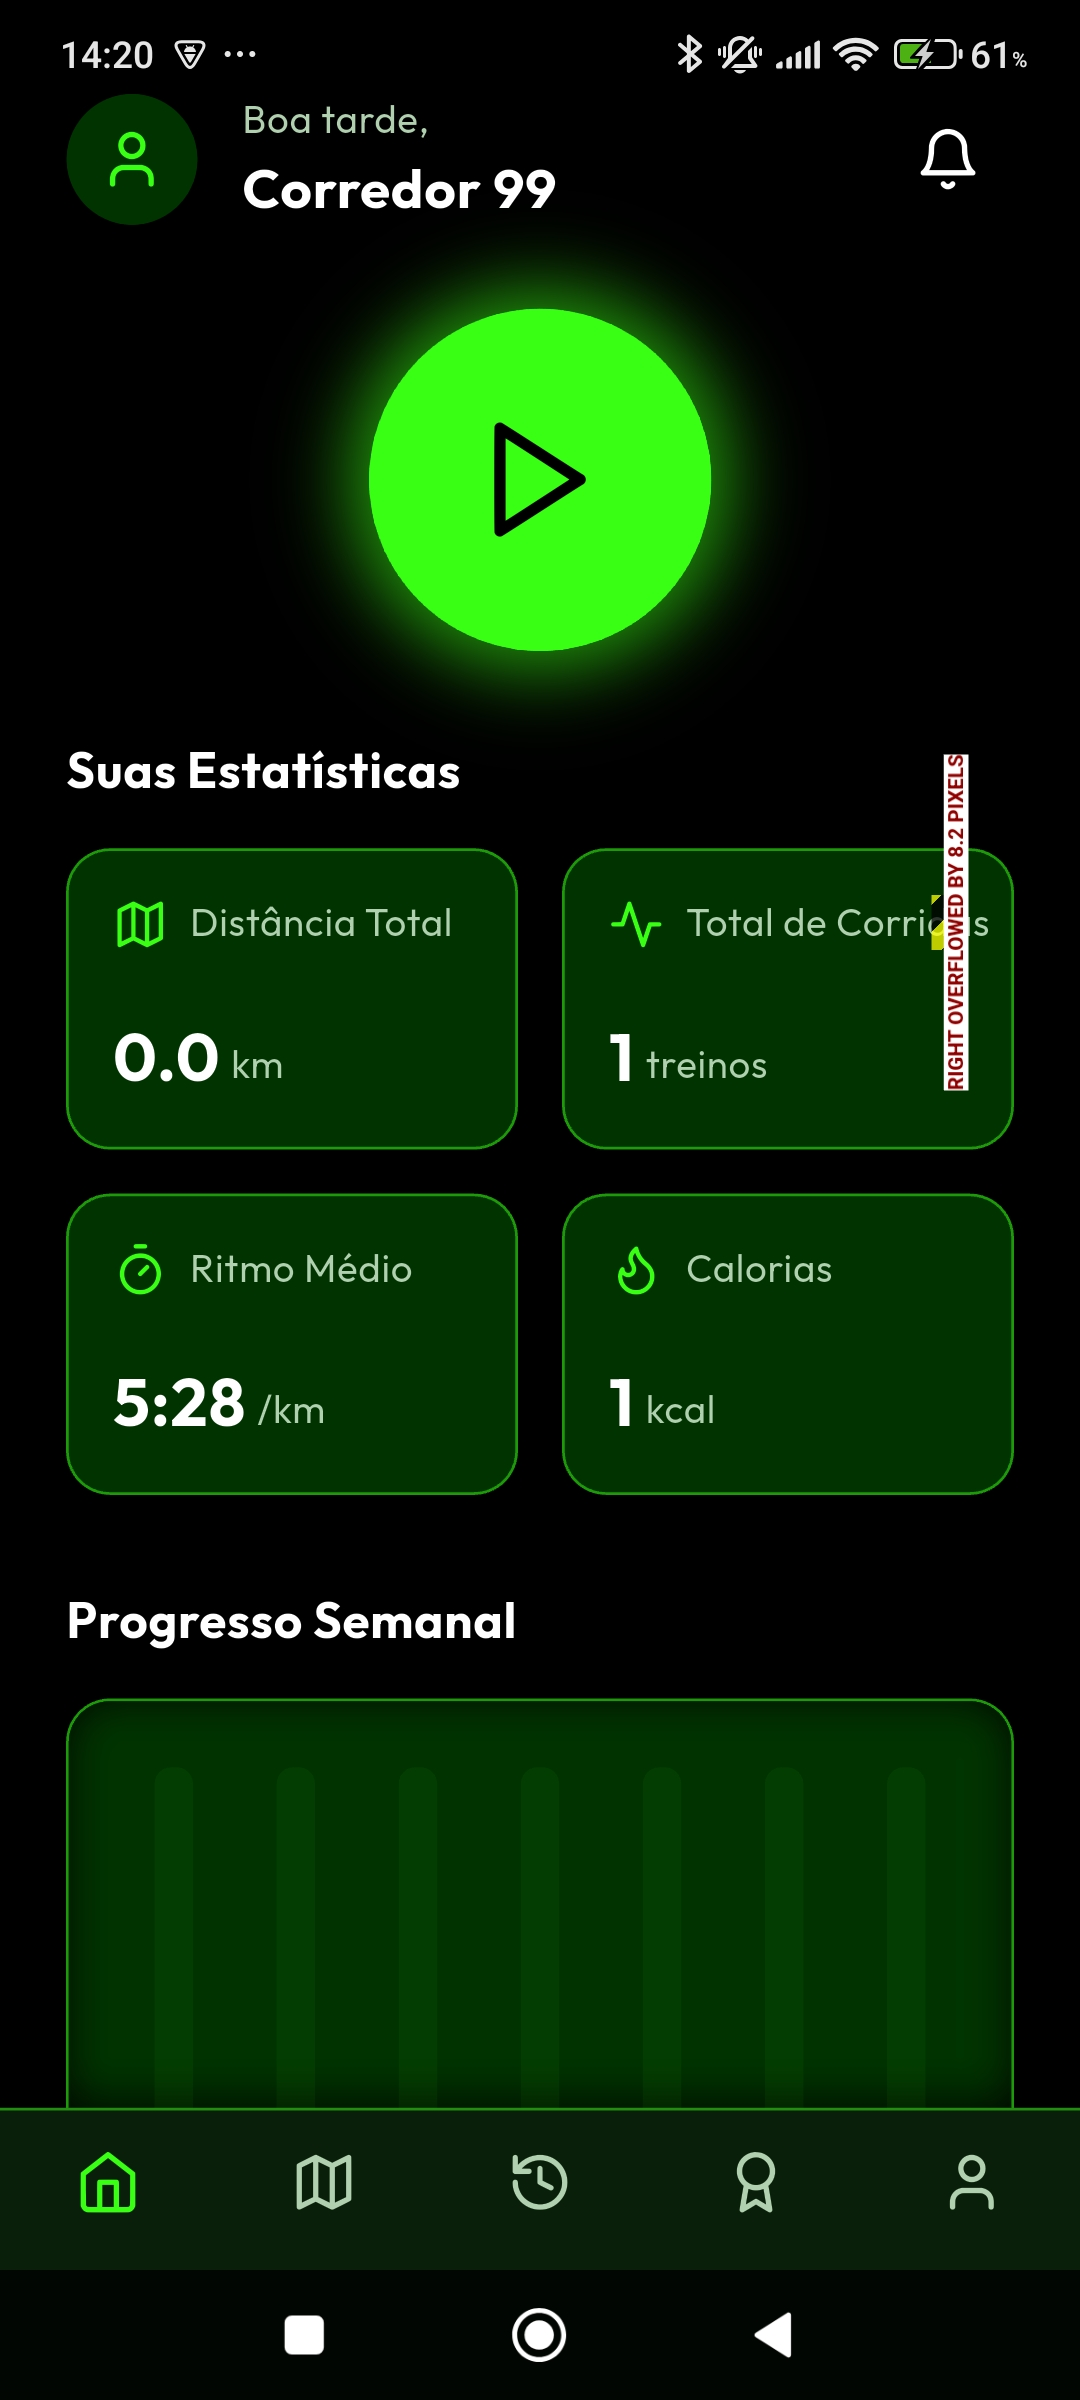
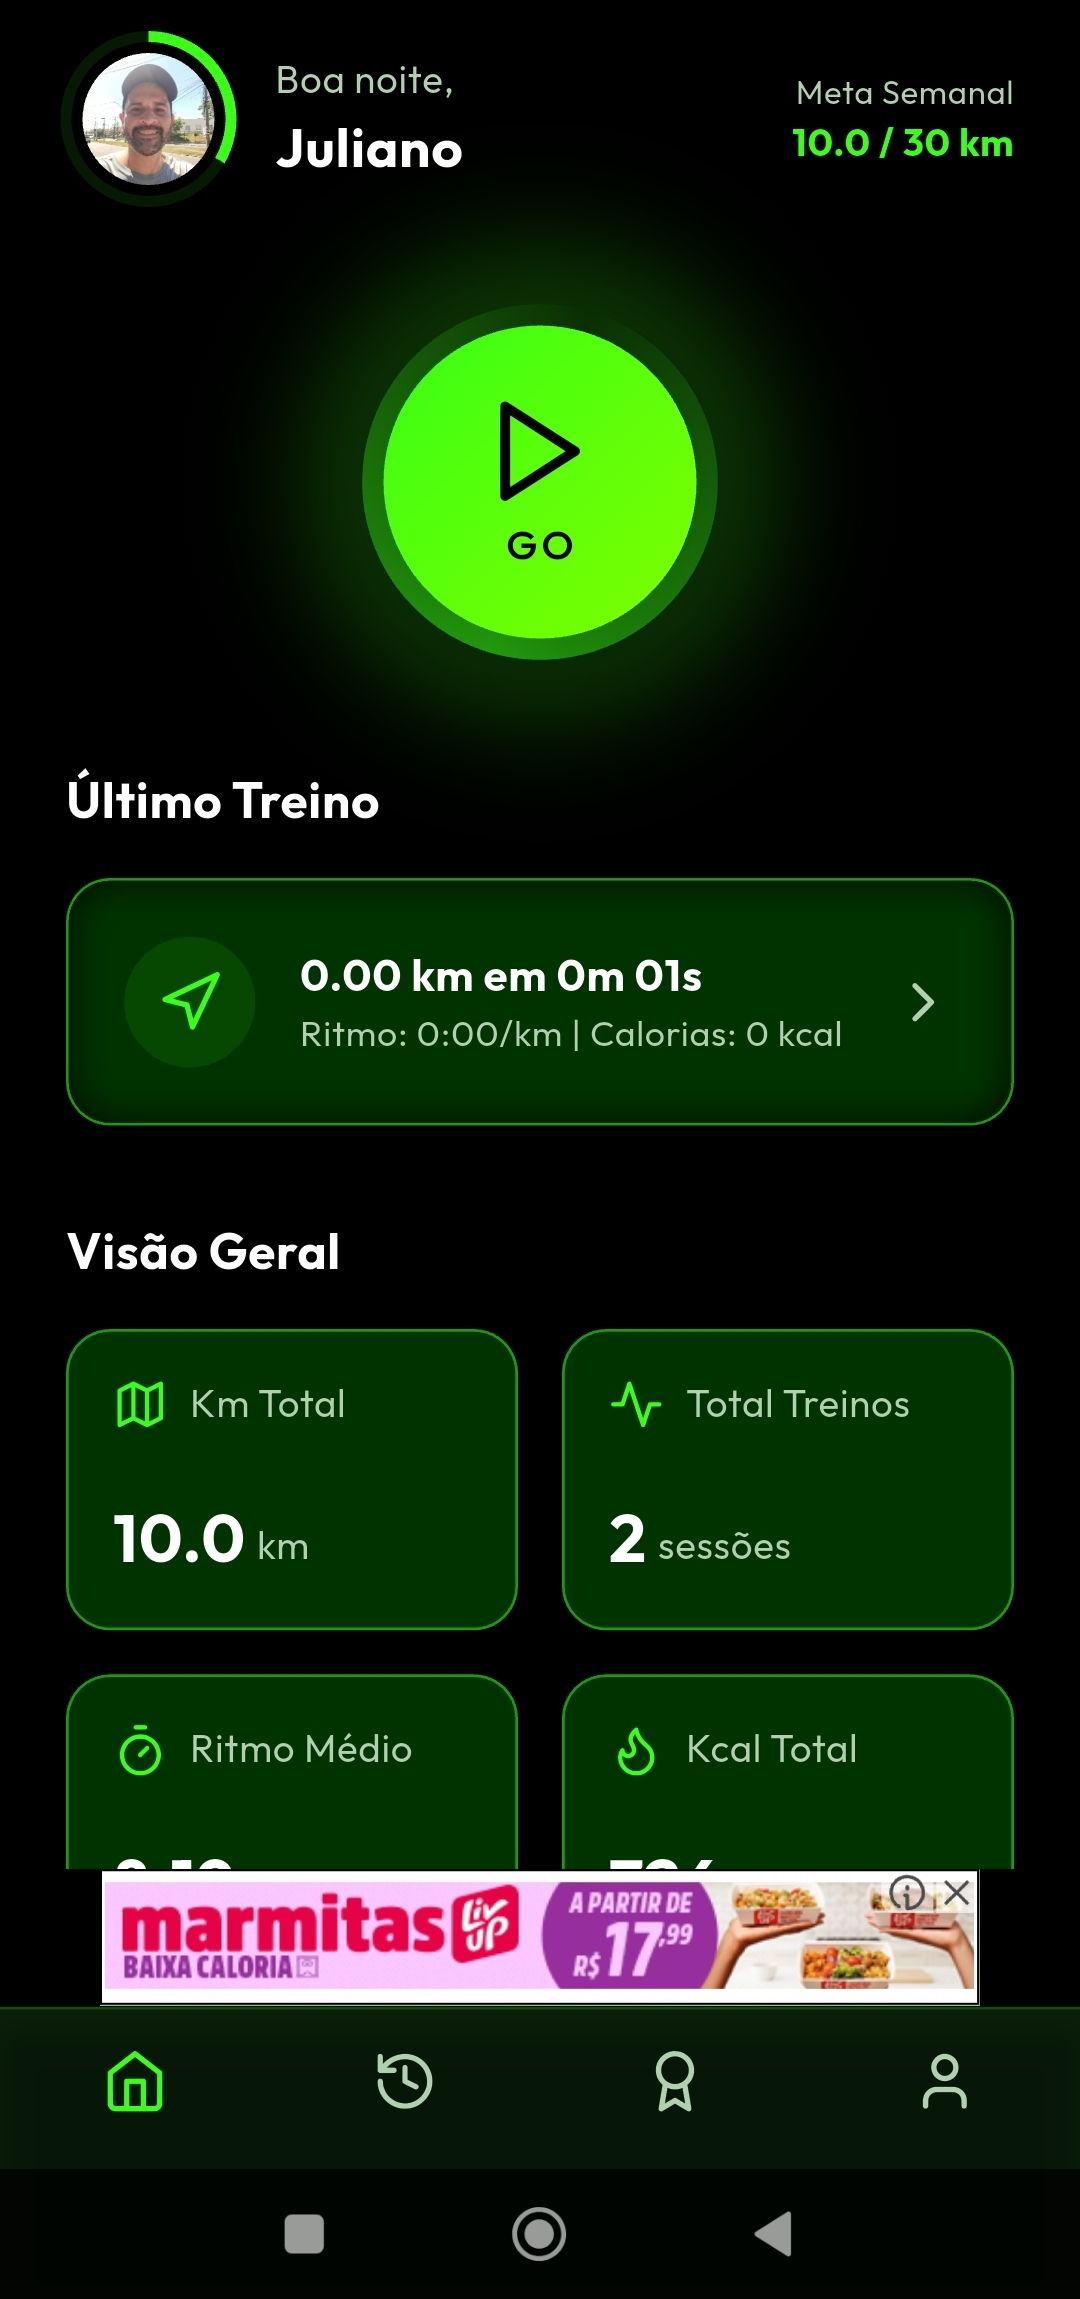
feat: add LandingRunLab and RunLabSuporte components, update images and privacy policy links

diff --git a/src/pages/runlab/suporte.js b/src/pages/runlab/suporte.js
@@ -1,0 +1,204 @@
+import Head from 'next/head';
+import Link from 'next/link';
+
+const faqs = [
+  {
+    question: 'Como faço backup das minhas corridas?',
+    answer:
+      'Abra Perfil > Dados e Privacidade > Exportar meus treinos. O RunLab gera automaticamente um arquivo JSON com todo o historico.',
+  },
+  {
+    question: 'Em qual formato os dados sao exportados?',
+    answer:
+      'A exportacao e feita em JSON (.json). Esse formato e padrao e facilita armazenamento, migracao e restauracao.',
+  },
+  {
+    question: 'Consigo restaurar os dados depois?',
+    answer:
+      'Sim. Acesse Perfil > Dados e Privacidade > Restaurar backup e selecione o arquivo JSON salvo para recuperar os treinos.',
+  },
+  {
+    question: 'Se eu trocar de celular, perco minhas corridas?',
+    answer:
+      'Nao, desde que voce tenha feito o backup JSON. No novo dispositivo, basta instalar o app e usar a opcao de importacao.',
+  },
+  {
+    question: 'O RunLab envia meus dados para servidores?',
+    answer:
+      'Nao. Os dados das corridas ficam sob responsabilidade do usuario, armazenados localmente no dispositivo.',
+  },
+  {
+    question: 'Onde encontro a politica de privacidade?',
+    answer:
+      'Voce pode acessar a politica completa na pagina oficial de privacidade do RunLab, com detalhes sobre armazenamento local e anuncios.',
+  },
+];
+
+const RunLabSuportePage = () => {
+  return (
+    <>
+      <Head>
+        <title>RunLab - Central de Suporte</title>
+        <meta
+          name="description"
+          content="Central de suporte oficial do RunLab com orientacoes de backup, exportacao JSON, importacao e FAQ."
+        />
+      </Head>
+
+      <main className="min-h-screen bg-gradient-to-br from-gray-50 via-white to-gray-100 dark:from-gray-900 dark:via-gray-800 dark:to-gray-900">
+        <section className="relative overflow-hidden border-b border-green-100 dark:border-green-900/40">
+          <div className="absolute -top-24 -left-24 h-72 w-72 rounded-full bg-green-100/70 blur-3xl dark:bg-green-900/20" />
+          <div className="absolute -bottom-24 -right-24 h-72 w-72 rounded-full bg-emerald-100/70 blur-3xl dark:bg-emerald-900/20" />
+
+          <div className="relative mx-auto max-w-5xl px-4 py-14 sm:px-6 lg:px-8">
+            <Link
+              href="/runlab"
+              className="mb-8 inline-flex items-center gap-1 text-sm text-gray-500 transition-colors hover:text-green-600 dark:text-gray-400 dark:hover:text-green-400"
+            >
+              <svg className="h-4 w-4" fill="none" stroke="currentColor" viewBox="0 0 24 24">
+                <path strokeLinecap="round" strokeLinejoin="round" strokeWidth={2} d="M15 19l-7-7 7-7" />
+              </svg>
+              Voltar para RunLab
+            </Link>
+
+            <div className="mb-6 inline-flex items-center gap-2 rounded-full border border-green-200 bg-green-50 px-4 py-1 text-xs font-semibold uppercase tracking-wide text-green-700 dark:border-green-800/60 dark:bg-green-900/30 dark:text-green-300">
+              Suporte oficial
+            </div>
+
+            <h1 className="text-3xl font-bold text-gray-900 dark:text-white md:text-5xl">
+              Central de Suporte do RunLab
+            </h1>
+            <p className="mt-4 max-w-3xl text-base text-gray-600 dark:text-gray-300 md:text-lg">
+              Orientacoes oficiais para backup, exportacao em JSON e restauracao segura dos seus treinos.
+            </p>
+          </div>
+        </section>
+
+        <section className="mx-auto max-w-5xl px-4 py-10 sm:px-6 lg:px-8">
+          <div className="rounded-2xl border border-green-100 bg-white p-6 shadow-sm dark:border-green-900/40 dark:bg-gray-800 md:p-8">
+            <h2 className="text-2xl font-bold text-gray-900 dark:text-white">Comece por aqui</h2>
+            <p className="mt-2 text-gray-600 dark:text-gray-300">
+              O RunLab faz backup, exporta os dados no formato JSON e permite importar o arquivo no sistema.
+            </p>
+
+            <div className="mt-6 grid grid-cols-1 gap-4 md:grid-cols-3">
+              <div className="rounded-xl border border-gray-200 bg-gray-50 p-4 dark:border-gray-700 dark:bg-gray-900/50">
+                <p className="text-sm font-semibold text-gray-900 dark:text-white">1) Backup</p>
+                <p className="mt-1 text-sm text-gray-600 dark:text-gray-300">
+                  Gere uma copia dos seus dados direto no app para evitar perda de historico.
+                </p>
+              </div>
+              <div className="rounded-xl border border-gray-200 bg-gray-50 p-4 dark:border-gray-700 dark:bg-gray-900/50">
+                <p className="text-sm font-semibold text-gray-900 dark:text-white">2) Exportacao JSON</p>
+                <p className="mt-1 text-sm text-gray-600 dark:text-gray-300">
+                  O arquivo e exportado no formato JSON para facilitar armazenamento e migracao.
+                </p>
+              </div>
+              <div className="rounded-xl border border-gray-200 bg-gray-50 p-4 dark:border-gray-700 dark:bg-gray-900/50">
+                <p className="text-sm font-semibold text-gray-900 dark:text-white">3) Importacao</p>
+                <p className="mt-1 text-sm text-gray-600 dark:text-gray-300">
+                  Reimporte o JSON no RunLab para restaurar corridas no mesmo aparelho ou em outro.
+                </p>
+              </div>
+            </div>
+          </div>
+        </section>
+
+        <section className="mx-auto max-w-5xl px-4 pb-8 sm:px-6 lg:px-8">
+          <div className="grid grid-cols-1 gap-6">
+            <article className="rounded-2xl border border-gray-200 bg-white p-6 shadow-sm dark:border-gray-700 dark:bg-gray-800 md:p-8">
+              <h2 className="text-2xl font-bold text-gray-900 dark:text-white">1. Como fazer backup dos seus treinos</h2>
+              <p className="mt-2 text-gray-600 dark:text-gray-300">
+                Siga este passo a passo para gerar um backup completo dos seus dados.
+              </p>
+
+              <ol className="mt-5 ml-5 list-decimal space-y-3 text-gray-700 dark:text-gray-300">
+                <li>Abra o aplicativo RunLab.</li>
+                <li>
+                  Na barra de navegacao inferior, localize o icone de perfil (representado por uma pessoa),
+                  que fica na ultima aba a direita.
+                </li>
+                <li>Toque na aba Perfil.</li>
+                <li>Na tela de perfil, procure pela secao Dados e Privacidade.</li>
+                <li>Dentro dessa secao, selecione a opcao Exportar meus treinos.</li>
+                <li>Ao selecionar essa opcao, sera aberta a tela de compartilhamento de arquivos do dispositivo.</li>
+                <li>
+                  Um arquivo no formato JSON (.json) sera gerado automaticamente contendo todos os treinos do usuario.
+                </li>
+                <li>
+                  Salve esse arquivo em um local seguro, como Google Drive, armazenamento do dispositivo
+                  ou outro servico de nuvem de sua preferencia.
+                </li>
+              </ol>
+
+              <div className="mt-5 rounded-xl border border-green-200 bg-green-50 p-4 text-sm text-green-900 dark:border-green-800 dark:bg-green-900/20 dark:text-green-200">
+                Esse arquivo representa o backup completo dos seus treinos.
+              </div>
+            </article>
+
+            <article className="rounded-2xl border border-gray-200 bg-white p-6 shadow-sm dark:border-gray-700 dark:bg-gray-800 md:p-8">
+              <h2 className="text-2xl font-bold text-gray-900 dark:text-white">2. Como restaurar um backup</h2>
+              <p className="mt-2 text-gray-600 dark:text-gray-300">
+                Caso seja necessario recuperar os dados posteriormente, siga os passos abaixo.
+              </p>
+
+              <ol className="mt-5 ml-5 list-decimal space-y-3 text-gray-700 dark:text-gray-300">
+                <li>Acesse novamente a secao Dados e Privacidade dentro da aba Perfil.</li>
+                <li>Selecione a opcao Restaurar backup.</li>
+                <li>Escolha o arquivo JSON de backup previamente salvo.</li>
+                <li>O sistema ira importar os dados e restaurar os treinos no aplicativo.</li>
+              </ol>
+            </article>
+          </div>
+        </section>
+
+        <section className="mx-auto max-w-5xl px-4 pb-8 sm:px-6 lg:px-8">
+          <div className="rounded-2xl border border-gray-200 bg-white p-6 shadow-sm dark:border-gray-700 dark:bg-gray-800 md:p-8">
+            <h2 className="text-2xl font-bold text-gray-900 dark:text-white">FAQ</h2>
+            <p className="mt-2 text-gray-600 dark:text-gray-300">Perguntas frequentes sobre backup, restauracao, importacao e privacidade.</p>
+
+            <div className="mt-6 space-y-3">
+              {faqs.map((item) => (
+                <details
+                  key={item.question}
+                  className="group rounded-xl border border-gray-200 bg-gray-50 p-4 open:border-green-300 open:bg-green-50/40 dark:border-gray-700 dark:bg-gray-900/50 dark:open:border-green-800 dark:open:bg-green-900/10"
+                >
+                  <summary className="flex cursor-pointer list-none items-center justify-between gap-4 text-left text-sm font-semibold text-gray-900 dark:text-white">
+                    <span>{item.question}</span>
+                    <span className="shrink-0 text-gray-400 transition group-open:rotate-45">+</span>
+                  </summary>
+                  <p className="mt-3 text-sm leading-relaxed text-gray-600 dark:text-gray-300">{item.answer}</p>
+                </details>
+              ))}
+            </div>
+          </div>
+        </section>
+
+        <section className="mx-auto max-w-5xl px-4 pb-14 sm:px-6 lg:px-8">
+          <div className="rounded-2xl bg-gradient-to-r from-green-500 to-emerald-600 p-6 text-white shadow-lg md:p-8">
+            <h2 className="text-2xl font-bold">Ainda precisa de ajuda?</h2>
+            <p className="mt-2 text-green-100">
+              Fale com o suporte do RunLab e descreva sua duvida. Vamos te ajudar com backup, importacao e uso do app.
+            </p>
+            <div className="mt-5 flex flex-col gap-3 sm:flex-row">
+              <a
+                href="mailto:[email redacted]"
+                className="inline-flex items-center justify-center rounded-xl bg-white px-5 py-3 font-semibold text-green-700 transition hover:scale-[1.02]"
+              >
+                Enviar email para suporte
+              </a>
+              <Link
+                href="/privacidade-runlab"
+                className="inline-flex items-center justify-center rounded-xl border border-white/50 px-5 py-3 font-semibold text-white transition hover:bg-white/10"
+              >
+                Ver politica de privacidade
+              </Link>
+            </div>
+          </div>
+        </section>
+      </main>
+    </>
+  );
+};
+
+export default RunLabSuportePage;

diff --git a/src/pages/components/Portfolio.js b/src/pages/components/Portfolio.js
@@ -75,6 +75,15 @@ const projects = [
     tags: ['Next.js', 'Notion', 'CMS'],
     category: 'frontend'
   },
+  {
+    title: 'RunLab',
+    description: 'App de corridas com acompanhamento de treinos, backup em JSON, importacao de dados e pagina de suporte dedicada.',
+    imageUrl: '/images/RUNLAB_SCREEN.jpg',
+    projectUrl: 'https://www.juliano340.com/runlab',
+    repoUrl: 'https://github.com/juliano340/RunLabAG',
+    tags: ['RunLab', 'Mobile', 'JSON Backup', 'Privacidade'],
+    category: 'frontend'
+  },
 ];
 
 const Portfolio = () => {

diff --git a/src/pages/privacidade-runlab.js b/src/pages/privacidade-runlab.js
@@ -24,15 +24,6 @@ const PrivacidadeRunLab = () => {
         <div className="max-w-4xl mx-auto">
           {/* Header */}
           <div className="text-center mb-12">
-            <Link
-              href="/links"
-              className="inline-flex items-center text-sm text-gray-500 dark:text-gray-400 hover:text-blue-600 dark:hover:text-blue-400 mb-6 transition-colors"
-            >
-              <svg className="w-4 h-4 mr-1" fill="none" stroke="currentColor" viewBox="0 0 24 24">
-                <path strokeLinecap="round" strokeLinejoin="round" strokeWidth={2} d="M15 19l-7-7 7-7" />
-              </svg>
-              Voltar para Links
-            </Link>
 
             <div className="flex items-center justify-center gap-3 mb-4">
               <div className="w-12 h-12 bg-gradient-to-br from-green-500 to-emerald-600 rounded-xl flex items-center justify-center">